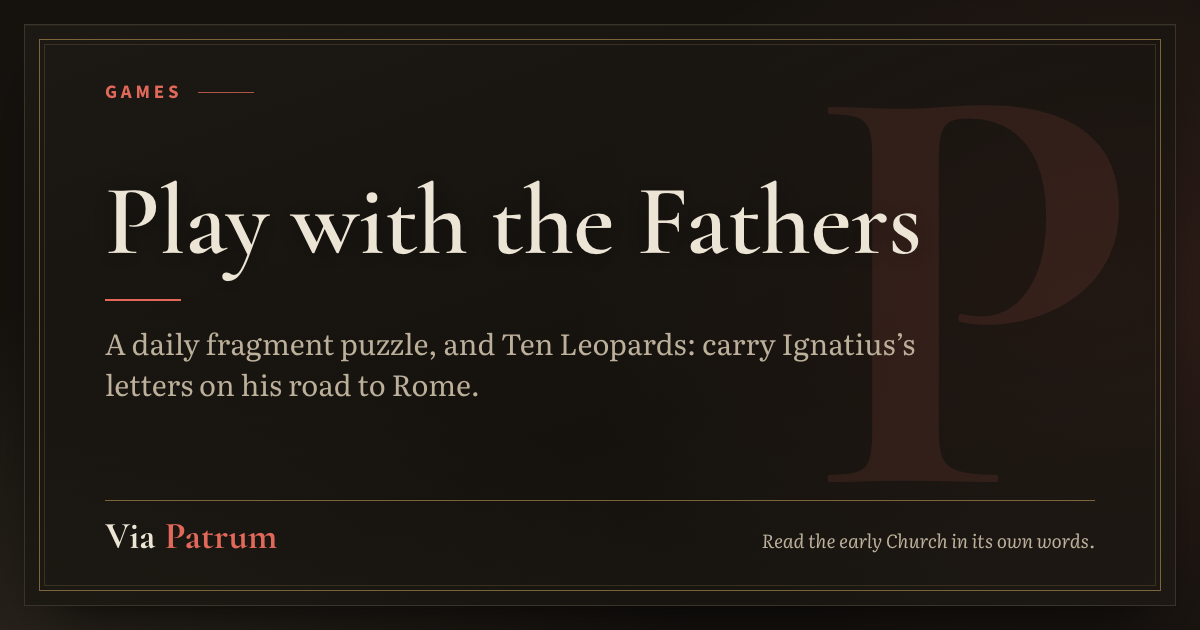
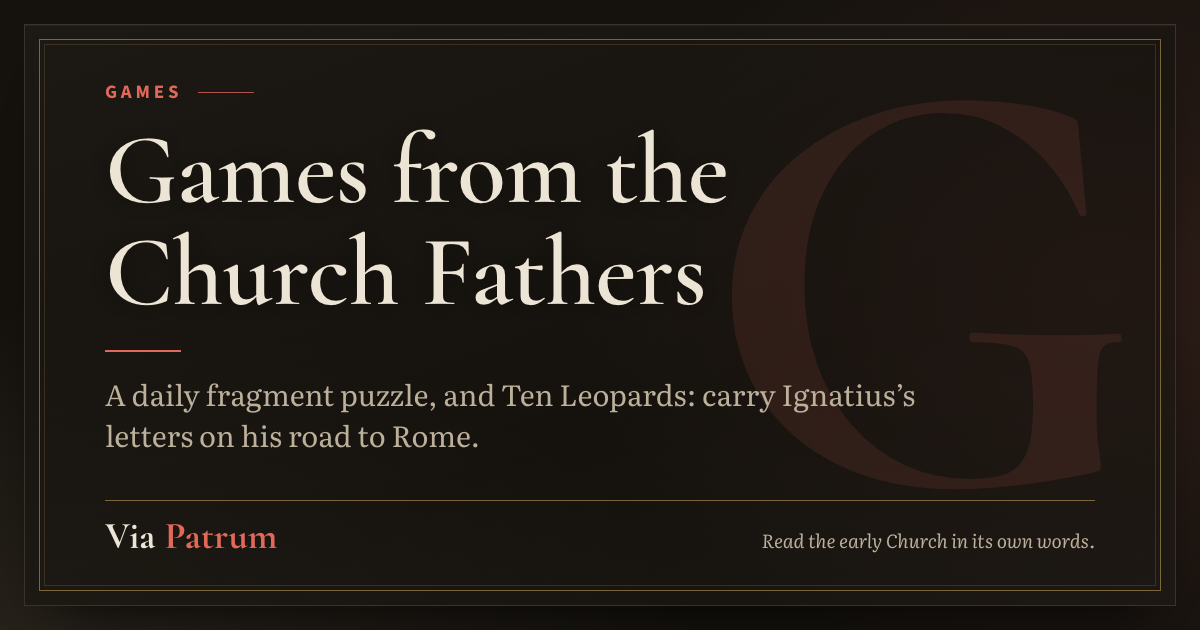
Games page and share card say "Games from the Church Fathers" instead of "Play with the Fathers" (owner 2026-10-18 3:33pm: option 1)

Changed region(s): [[0.0925, 0.2111, 0.7708, 0.4825], [0.0925, 0.6032, 0.7708, 0.7238], [0.0925, 0.5127, 0.7708, 0.573]]

diff --git a/scripts/games_page.py b/scripts/games_page.py
@@ -55,7 +55,7 @@ def build(dist: Path, layout, write) -> int:
     body = f"""
 <header class="gm-head">
   <p class="eyebrow">Games</p>
-  <h1>Play with the Fathers</h1>
+  <h1>Games from the Church Fathers</h1>
   <p class="intro">Every game here is built on the same new English as the library, so what you play is what the Fathers wrote. Free, no account, on phone or computer.</p>
 </header>
 <div class="gm-grid">{''.join(card(g, eager=i < 2) for i, g in enumerate(GAMES))}</div>
